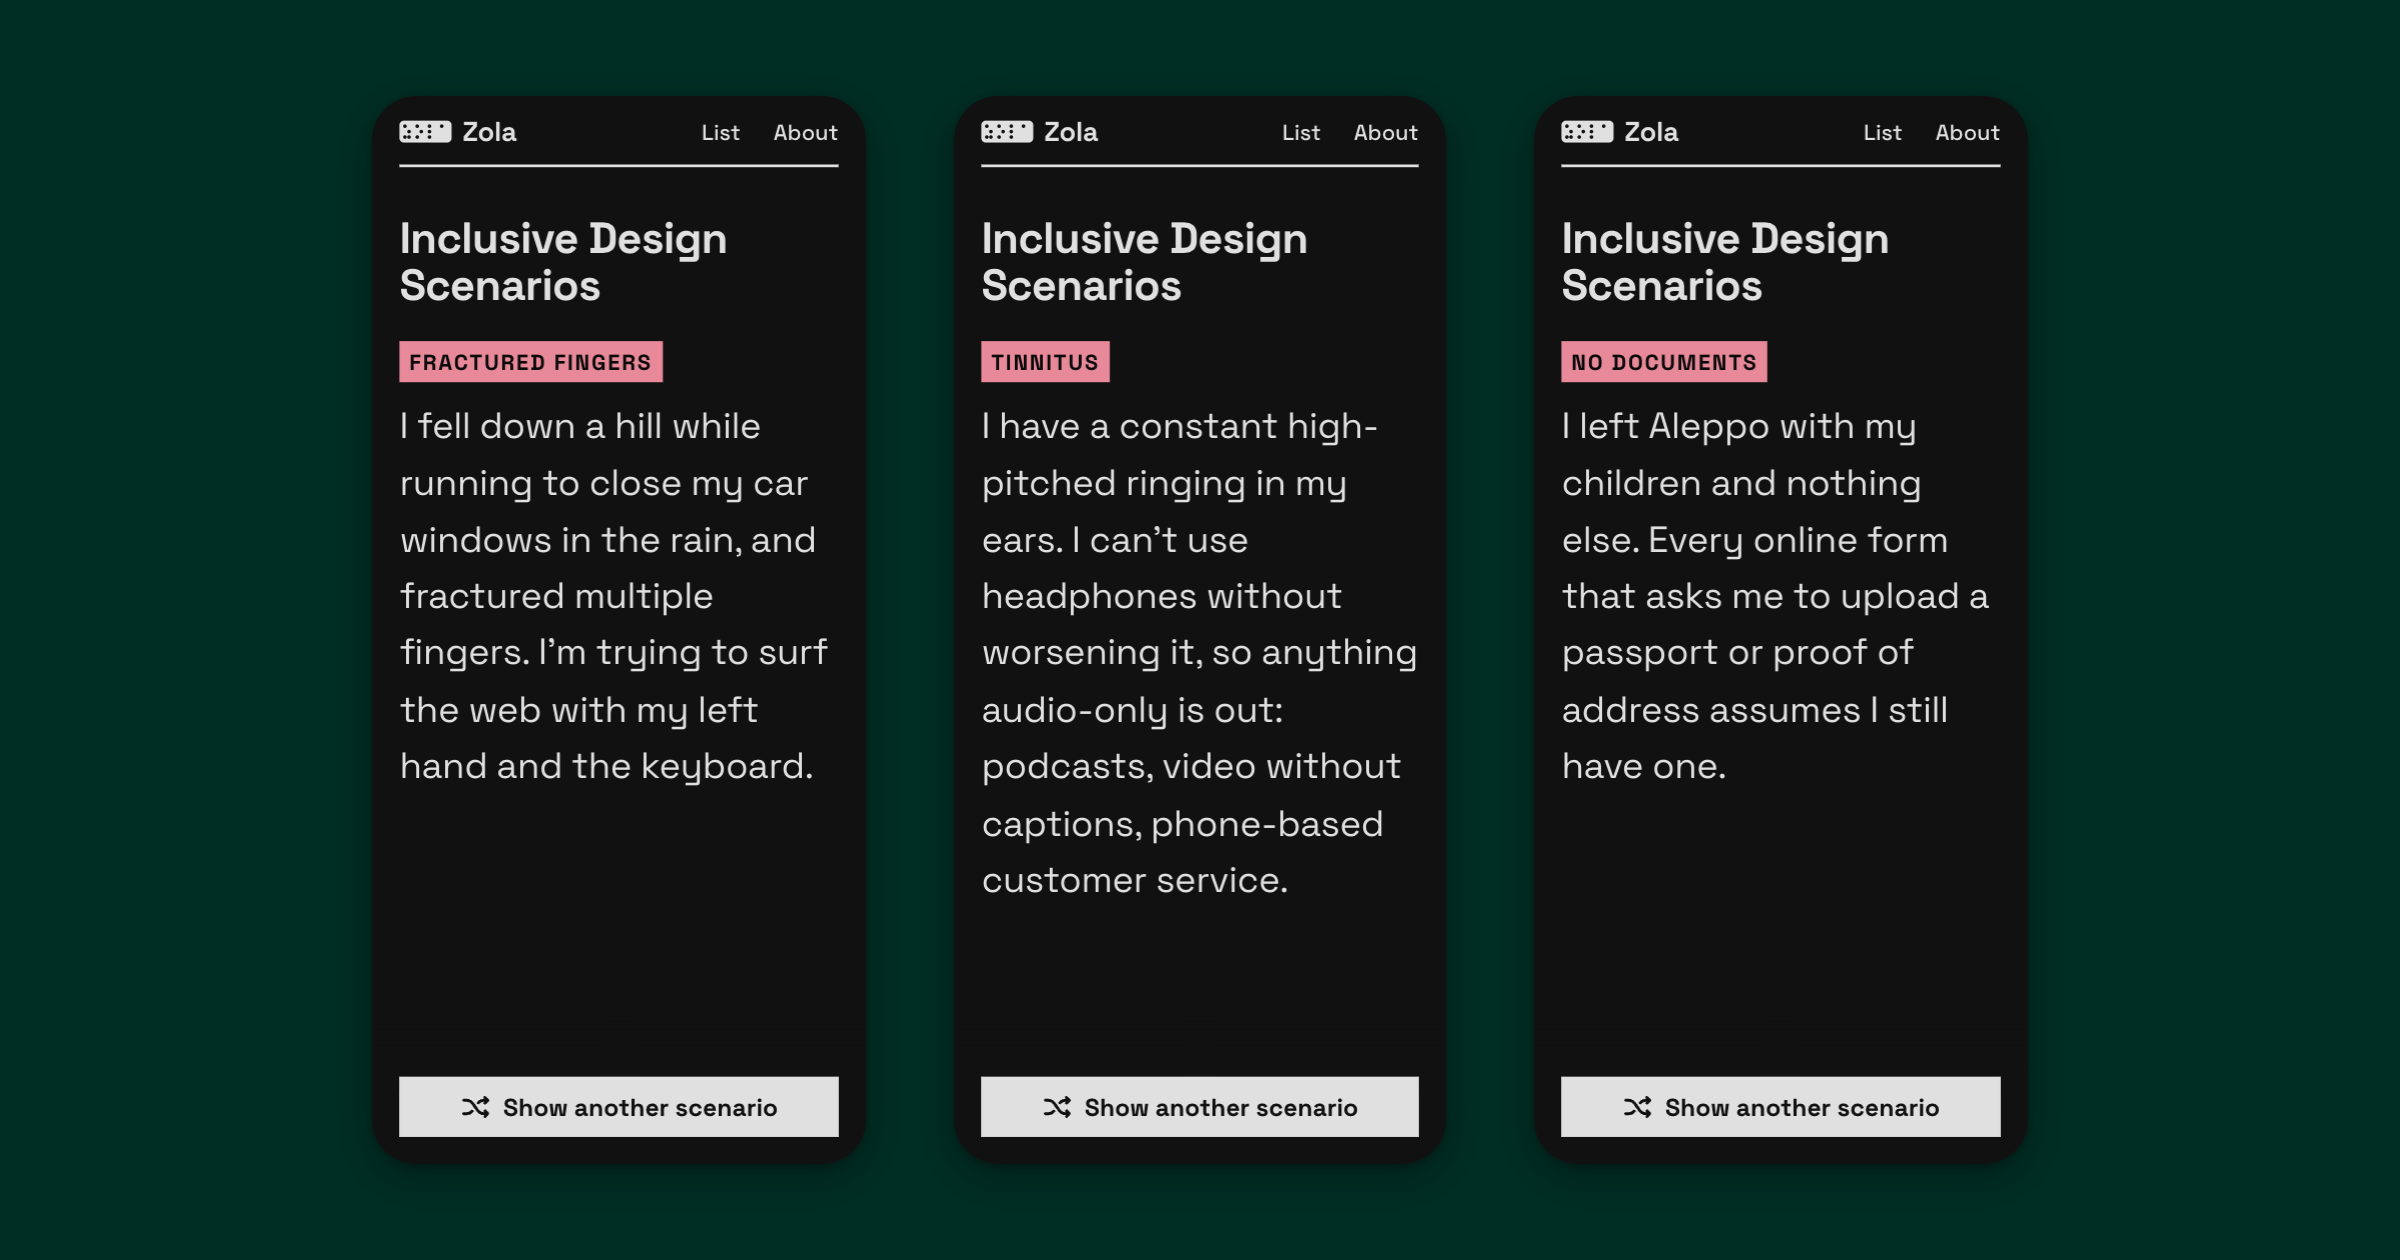
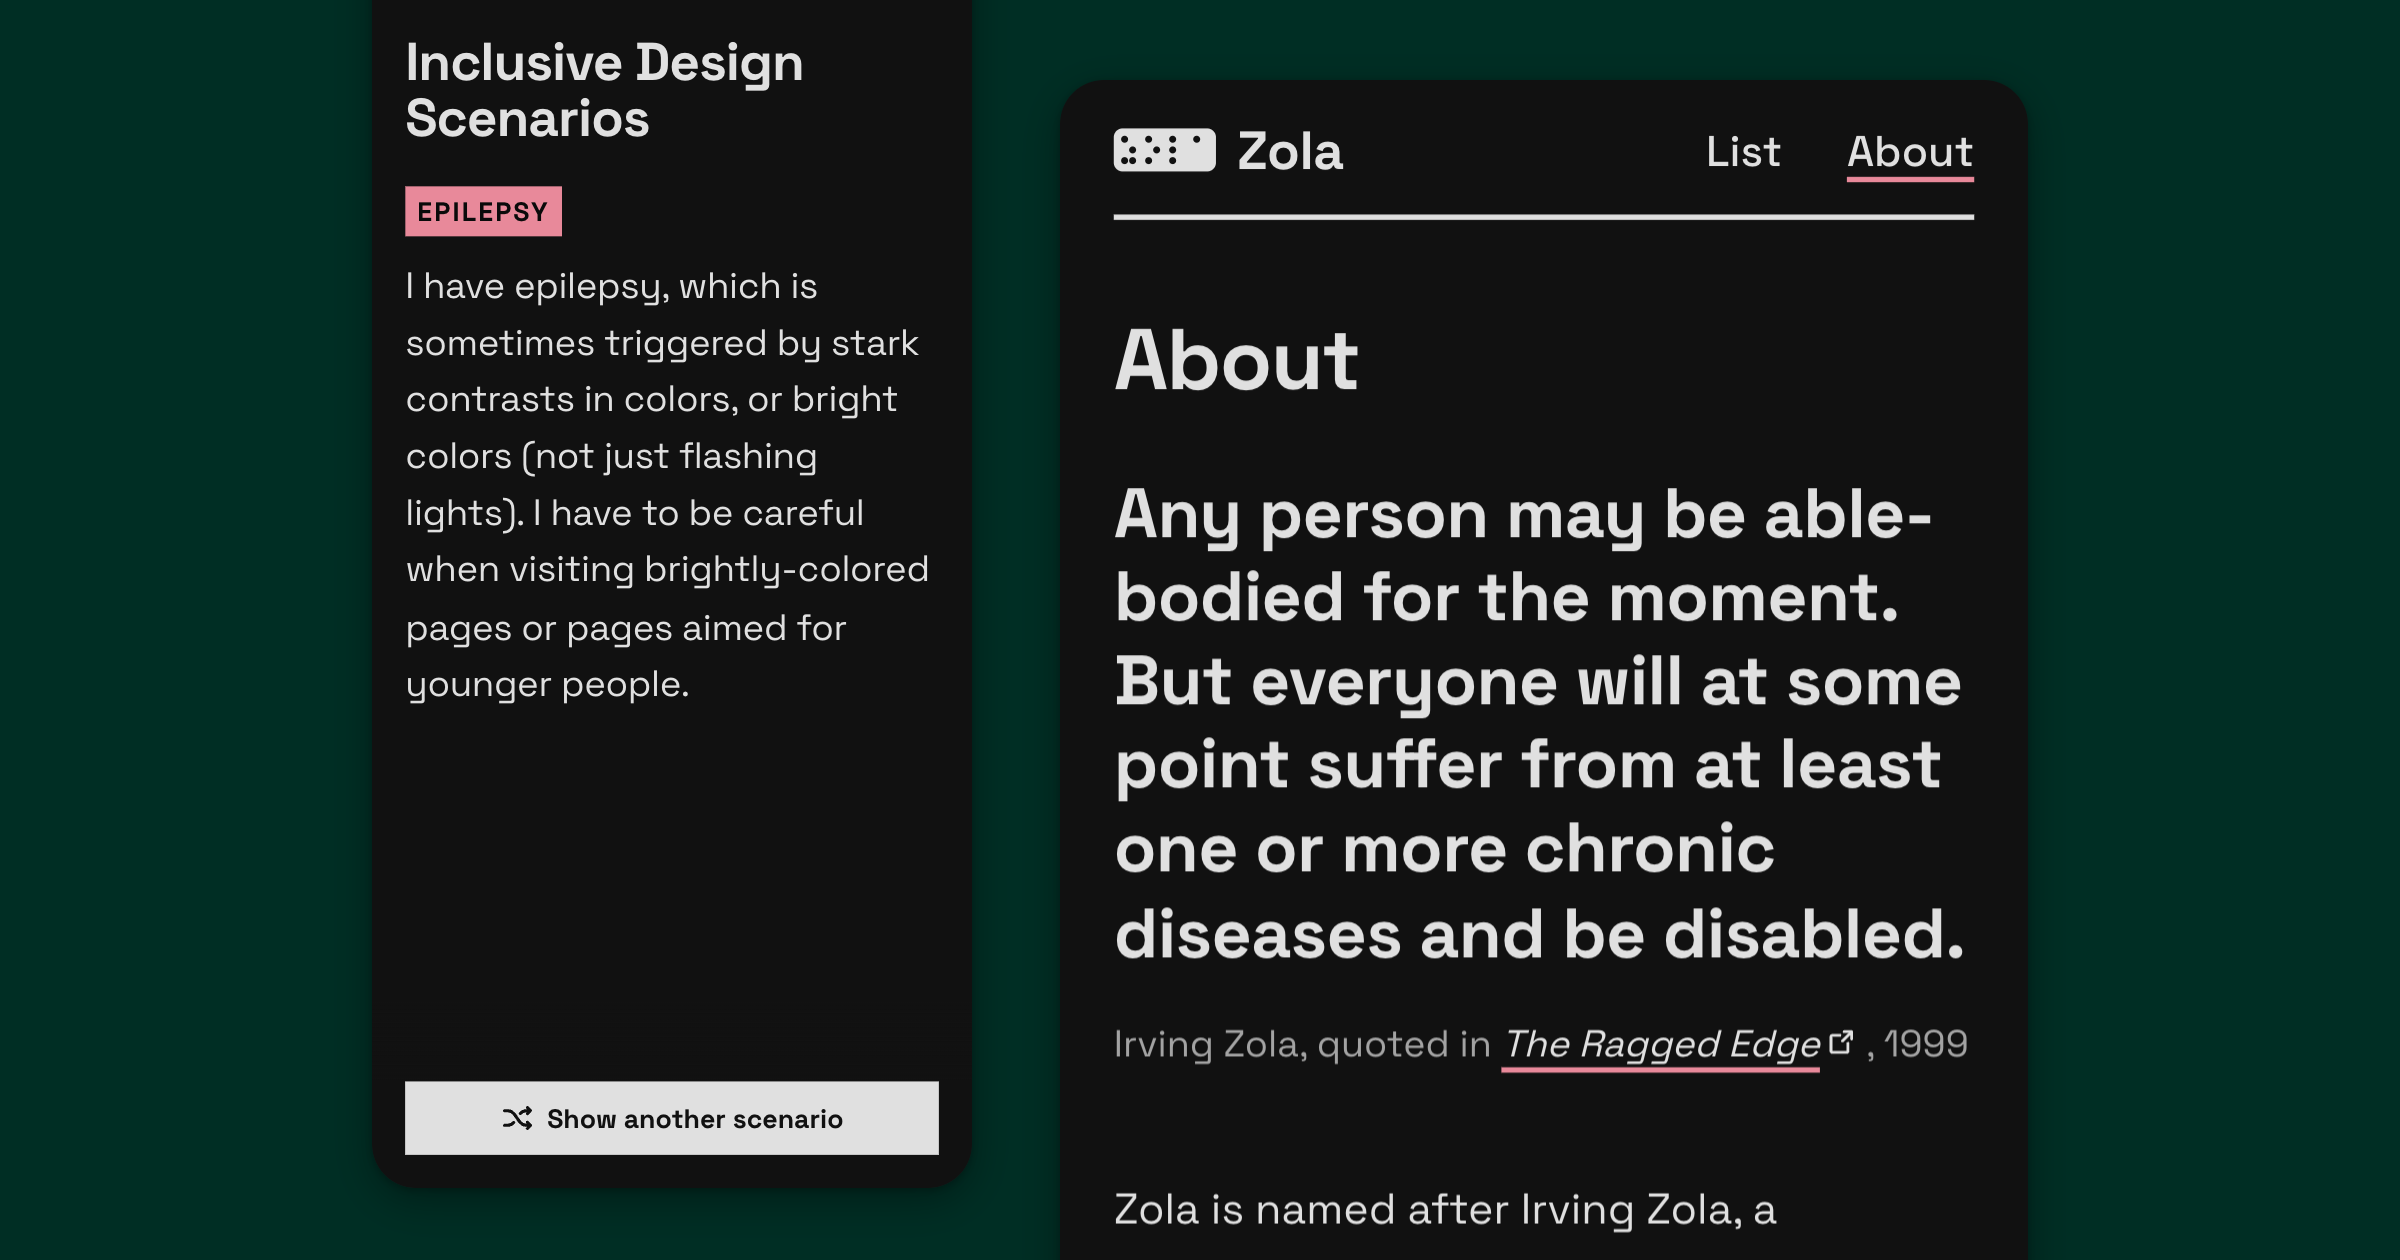
zola cover

Changed region(s): [[0.1562, 0.0, 0.8438, 1.0]]

diff --git a/src/data/projects.ts b/src/data/projects.ts
@@ -57,7 +57,7 @@ export const projects: Project[] = [
     {
         name: "Sprig",
         description:
-            "Botanical studies. Be taken on an arboreal tour, or click the settings cog and invent your own impossible plants.",
+            "Botanical studies. Be taken on an arboreal tour, or click the settings cog and invent some plants. A bit like a god.",
         url: "https://jackbush.github.io/glimmers/sprig/",
         cover: { format: "landscape", image: sprigPoster, video: sprigVideo },
     },
@@ -74,10 +74,10 @@ export const projects: Project[] = [
             "Make riso-style prints. Customise the ink blending, shading mode and registration for some analogue charm.",
         url: "https://jackbush.github.io/risolino/",
         cover: { format: "landscape", image: risolinoCover },
-        link: {
-            label: "Learn how to use it",
-            url: "https://jackbush.github.io/albums/risolino-guide/",
-        },
+        // link: {
+        //     label: "Learn how to use it",
+        //     url: "https://jackbush.github.io/albums/risolino-guide/",
+        // },
     },
     {
         name: "Atlas Nights",
